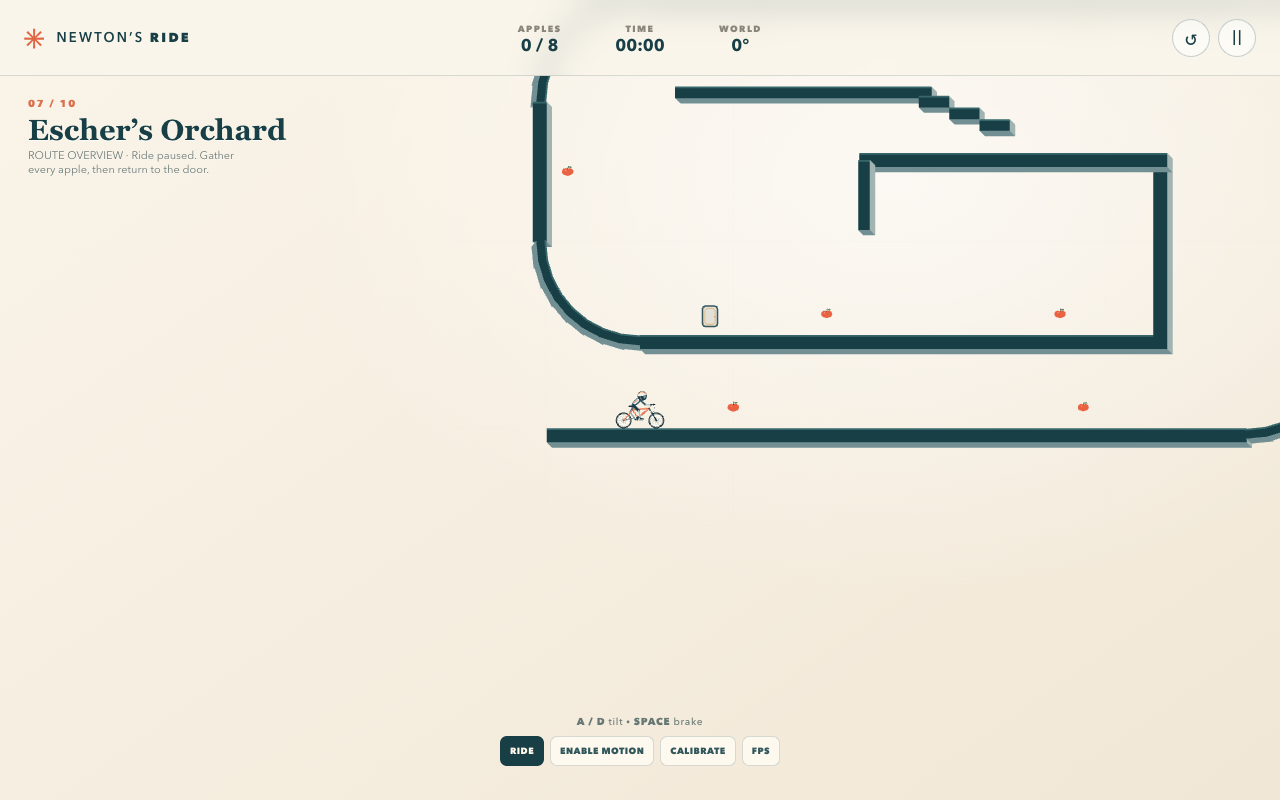
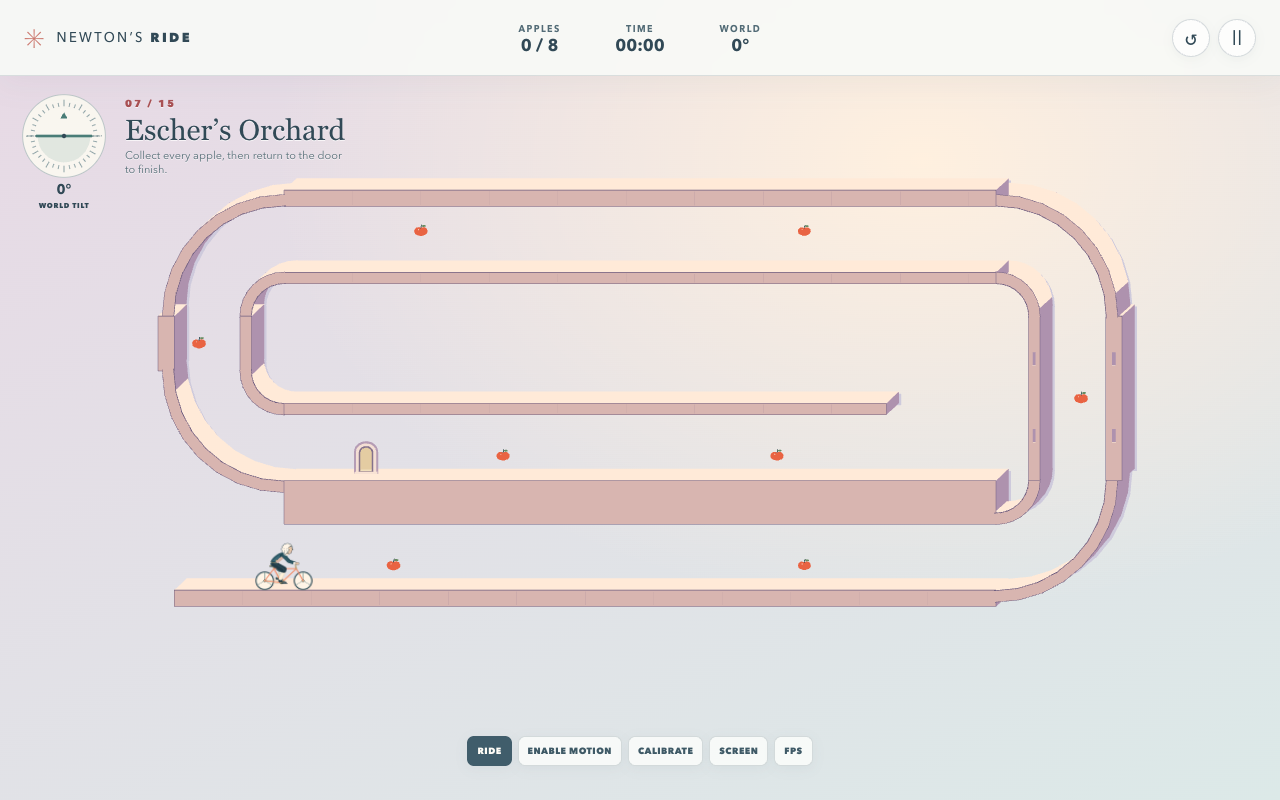
Keep Escher's circular tunnel visible while riding (#5)

diff --git a/src/levels/late.ts b/src/levels/late.ts
@@ -41,27 +41,30 @@ export const lateLevels: Level[] = [
   },
   {
     id: 'eschers-orchard', name: 'Escher’s Orchard', subtitle: 'The room above is the room below',
-    mechanic: 'A spiral of nested rooms turns floor into wall and ceiling, then returns above the entrance.',
+    mechanic: 'A low spiral tunnel turns floor into wall and ceiling, then returns above the entrance.',
     hint: 'Trace the outer apples clockwise. After the left wall, collect both terrace apples, then reverse to the inner door.',
-    spawn: p(4, .7), bounds: bounds(38, 22), difficulty: 7, accent: '#d49db8',
+    spawn: p(4, .7), bounds: bounds(38, 18), difficulty: 7, accent: '#d49db8',
+    camera: { zoom: .9, verticalOffset: .04 },
     surfaces: [
       g('escher-lower-gallery', 15, -.3, 30),
-      ...turn('escher-southeast', 30, 4, 4, -Math.PI / 2), g('escher-east-room', 34.3, 9, .6, 10),
-      ...turn('escher-northeast', 30, 14, 4, 0), g('escher-upper-gallery', 17, 18.3, 26),
-      ...turn('escher-northwest', 4, 14, 4, Math.PI / 2), g('escher-west-room', -.3, 11, .6, 6),
+      ...turn('escher-southeast', 30, 4, 4, -Math.PI / 2), g('escher-east-room', 34.3, 7, .6, 6),
+      ...turn('escher-northeast', 30, 10, 4, 0), g('escher-upper-gallery', 17, 14.3, 26),
+      ...turn('escher-northwest', 4, 10, 4, Math.PI / 2), g('escher-west-room', -.3, 9, .6, 2),
       ...turn('escher-inner-return', 4, 8, 4, Math.PI),
-      g('escher-shared-floor-ceiling', 15, 3.7, 22),
-      g('escher-inner-east-wall', 26.3, 7.3, .6, 7.8),
-      g('escher-inner-ceiling', 20, 11.5, 13.2, .6),
-      // Staggered rooms and stair landings form a visible nested architectural spiral.
-      g('escher-high-landing', 11, 14.4, 11, .5),
-      g('escher-high-stair-1', 16.6, 14, 1.3, .5),
-      g('escher-high-stair-2', 17.9, 13.5, 1.3, .5),
-      g('escher-high-stair-3', 19.2, 13, 1.3, .5),
-      g('escher-inner-column', 13.6, 10, .5, 3),
+      // The same slab is the low entrance roof and the final terrace floor.
+      // A continuous inner lining keeps the 2.4m tunnel visible through every bend.
+      g('escher-shared-floor-ceiling', 17, 3.2, 26, 1.6),
+      ...turn('escher-lining-southeast', 30, 4, 1.18, -Math.PI / 2),
+      g('escher-inner-east-wall', 31.39, 7, .42, 6),
+      ...turn('escher-lining-northeast', 30, 10, 1.18, 0),
+      g('escher-inner-ceiling', 17, 11.39, 26, .42),
+      ...turn('escher-lining-northwest', 4, 10, 1.18, Math.PI / 2),
+      g('escher-inner-west-wall', 2.61, 9, .42, 2),
+      ...turn('escher-lining-return', 4, 8, 1.18, Math.PI),
+      g('escher-terrace-ceiling', 15, 6.61, 22, .42),
     ],
-    apples: [a('escher-a', 8, .9), a('escher-b', 23, .9), a('escher-c', 33.1, 9),
-      a('escher-d', 23, 17.1), a('escher-e', 9, 17.1), a('escher-f', .9, 11),
+    apples: [a('escher-a', 8, .9), a('escher-b', 23, .9), a('escher-c', 33.1, 7),
+      a('escher-d', 23, 13.1), a('escher-e', 9, 13.1), a('escher-f', .9, 9),
       a('escher-g', 12, 4.9), a('escher-h', 22, 4.9)],
     exit: p(7, 4.8),
   },

diff --git a/e2e/escher-tunnel.spec.ts b/e2e/escher-tunnel.spec.ts
@@ -1,0 +1,33 @@
+import { expect, test } from '@playwright/test';
+
+test.use({ hasTouch: true });
+test('Escher shows its low tunnel and completes the four curved gravity faces on phone', async ({ page }) => {
+  test.setTimeout(105_000);
+  const errors: string[] = [];
+  page.on('pageerror', e => errors.push(e.message));
+  await page.setViewportSize({ width: 390, height: 844 });
+  await page.goto('/');
+  await page.waitForFunction(() => Boolean((window as any).__NEWTON__));
+  await page.evaluate(() => (window as any).__NEWTON__.load(6));
+  await page.waitForTimeout(150);
+  await page.screenshot({ path: 'test-results/escher-tunnel-portrait.png' });
+  await page.setViewportSize({ width: 844, height: 390 });
+  await page.evaluate(async () => {
+    const { createReplayPilot } = await import('/src/dev/replay.ts');
+    const api = (window as any).__NEWTON__;
+    api.load(6);
+    api.drive(createReplayPilot(6));
+  });
+  await page.screenshot({ path: 'test-results/escher-tunnel-landscape.png' });
+  for (const [name, angle] of [['first-bend', .8], ['ceiling', 3.2], ['return-bend', 5.5]] as const) {
+    await page.waitForFunction(target => {
+      const api = (window as any).__NEWTON__;
+      return api.snapshot().worldAngle >= target || api.state().status !== 'playing';
+    }, angle, { timeout: 85_000 });
+    expect(await page.evaluate(() => (window as any).__NEWTON__.state().status)).toBe('playing');
+    await page.screenshot({ path: `test-results/escher-tunnel-${name}.png` });
+  }
+  await expect.poll(() => page.evaluate(() => (window as any).__NEWTON__.state().status), { timeout: 40_000 }).toBe('complete');
+  expect(await page.evaluate(() => (window as any).__NEWTON__.snapshot().collected.length)).toBe(8);
+  expect(errors).toEqual([]);
+});

diff --git a/tests/levels.test.ts b/tests/levels.test.ts
@@ -141,14 +141,17 @@ describe('authored campaign', () => {
     expect(orchard.exit.x).toBeLessThan(orchard.spawn.x);
   });
 
-  it('puts Escher objectives around nested rooms and on both sides of the shared gallery', () => {
+  it('puts Escher objectives along each tunnel face and on both sides of the shared gallery', () => {
     const escher = levels[6];
     const shared = escher.surfaces.find(s => s.id === 'escher-shared-floor-ceiling')!;
     expect(escher.apples.filter(a => a.x > shared.x - shared.w / 2 && a.x < shared.x + shared.w / 2 && a.y < shared.y)).toHaveLength(2);
     expect(escher.apples.some(a => a.y > shared.y && a.y < shared.y + 2)).toBe(true);
-    expect(escher.apples.some(a => a.x < 2 && a.y > 8)).toBe(true);
-    expect(escher.apples.some(a => a.x > 30 && a.y > 8)).toBe(true);
-    expect(escher.apples.some(a => a.y > 16)).toBe(true);
+    const east = escher.surfaces.find(s => s.id === 'escher-east-room')!;
+    const west = escher.surfaces.find(s => s.id === 'escher-west-room')!;
+    const roof = escher.surfaces.find(s => s.id === 'escher-upper-gallery')!;
+    expect(escher.apples.some(a => a.x < west.x + 2 && Math.abs(a.y - west.y) < west.h / 2)).toBe(true);
+    expect(escher.apples.some(a => a.x > east.x - 2 && Math.abs(a.y - east.y) < east.h / 2)).toBe(true);
+    expect(escher.apples.filter(a => a.y > roof.y - 2 && a.y < roof.y - roof.h / 2)).toHaveLength(2);
     expect(escher.exit.y).toBeGreaterThan(shared.y);
   });
 

diff --git a/src/renderer.ts b/src/renderer.ts
@@ -143,13 +143,16 @@ export async function createRenderer(host: HTMLElement): Promise<GameRenderer> {
     const portrait = h > w * 1.1;
     const sceneWidth = portrait ? 9.4 : 15.5;
     const sceneHeight = portrait ? 13.8 : 9.1;
-    scale = clamp(Math.min(w / sceneWidth, h / sceneHeight), 26, 88);
+    const framing = level?.camera;
+    scale = clamp(Math.min(w / sceneWidth, h / sceneHeight), 26, 88)
+      * clamp(framing?.zoom ?? 1, .7, 1.2);
     if (surveying && level) {
       const span = { x: level.bounds.max.x - level.bounds.min.x, y: level.bounds.max.y - level.bounds.min.y };
       scale = Math.min((w - 36) / span.x, Math.max(80, h - (portrait ? 260 : 170)) / span.y);
     }
     world.scale.set(scale, -scale);
-    world.position.set(w / 2, surveying ? h / 2 + 12 : h / 2 + (portrait ? -0.16 * h : 0));
+    world.position.set(w / 2, surveying ? h / 2 + 12
+      : h / 2 + (portrait ? -0.16 * h : 0) + clamp(framing?.verticalOffset ?? 0, -.1, .1) * h);
   }
 
   function load(nextLevel: Level): void {

diff --git a/src/types.ts b/src/types.ts
@@ -14,6 +14,8 @@ export interface Level {
   bounds: { min: Vec; max: Vec }; swings?: Swing[]; props?: Prop[];
   portals?: Portal[]; timePlatforms?: TimePlatform[]; routeHints?: RouteHint[];
   timeAxis?: Vec; timeTravel?: number; initialAngle?: number;
+  /** Normal riding view only; verticalOffset is a fraction of viewport height. */
+  camera?: { zoom: number; verticalOffset?: number };
   accent?: string; difficulty: number;
 }
 export interface Controls {

diff --git a/docs/maps.md b/docs/maps.md
@@ -10,7 +10,7 @@ This replaces the short original routes. Coordinates are metres, positive y up. 
 | The Pendulum Mill | Two compact decks of different suspension lengths, curved mill wall, long overhead return. | 6 | 103 m / 53 s |
 | The Room on Its Side | Sunken floor around a central divider, rounded end wall, ceiling journey home. | 6 | 92 m / 46 s |
 | Newton’s Attic | Ramped ridge and loose weights; return past the home door to collect a storage-pocket apple, then reverse again. | 6 | 102 m / 69 s |
-| Escher’s Orchard | Lower gallery → east wall → roof → west wall → top of the former entry ceiling → inner-room reversal. | 8 | 119 m / 81 s |
+| Escher’s Orchard | Lower gallery → east wall → roof → west wall → top of the former entry ceiling → inner-room reversal. | 8 | 111 m / 75 s |
 | The Contrary Conservatory | Lower greenhouse, rising weights, end wall and roof; reverse out of the final roof pocket. | 7 | 102 m / 68 s |
 | The Gravity Engine | Compact hanging deck, long approach around an axle, wall climb and overhead gallery return. | 7 | 83 m / 56 s |
 | The Clockwork Apple | Long approach raises a lift; collect the high apple and reverse the entire journey to lower it and return. | 5 | 74 m / 49 s |
@@ -24,7 +24,7 @@ The map 2 correction and measured one-wheel apple collection are documented in [
 
 Acceptance coverage is in `tests/campaign-early.test.ts` and `tests/campaign-late.test.ts`. Static tests separately check rotated bounds and bike spawn clearance. Campaign tests reject idle, held rotation, and fixed-angle attempts as trivial quick solutions. They record actual wheel support on the swings. An independent reviewer removed each of the four swing decks and observed the unchanged pilot crash at its gap. Clockwork tests freeze the lift and omit the return leg; both experiments prevent the tested route from completing.
 
-Escher now involves a complete gravity circuit and a shared ceiling/floor, with nested architecture and a reverse detour. Its geometry remains planar; it is not a topologically impossible world or a teleport system. Loose/inverted weights respond physically but do not operate mandatory gates. Sustained upside-down hanging and brake-assisted free-wheel swing capture still need dedicated campaign challenges. See [map residuals](maps-residuals.md).
+Escher now involves a complete gravity circuit and a shared ceiling/floor, with a continuous low tunnel around each bend and a reverse detour. Its geometry remains planar; it is not a topologically impossible world or a teleport system. Loose/inverted weights respond physically but do not operate mandatory gates. Sustained upside-down hanging and brake-assisted free-wheel swing capture still need dedicated campaign challenges. See [map residuals](maps-residuals.md).
 
 Browser gameplay evidence is recorded independently in [gameplay-v2.md](gameplay-v2.md). Full route overview is available using MAP or M, which pauses simulation. Physical phone sensor feel and sustained mobile performance remain hardware checks.
 

diff --git a/docs/campaign-late.md b/docs/campaign-late.md
@@ -5,7 +5,7 @@ The final five saved IDs, names and order are preserved. Coordinates remain metr
 | Map | Required route | Apples | Replay distance | Replay time |
 | --- | --- | ---: | ---: | ---: |
 | Newton’s Attic | Two ramps and the high ridge; reverse from the far pocket, pass the door to the left storage pocket, reverse again to finish | 6 | 102.4 m | 69.0 s |
-| Escher’s Orchard | Lower gallery → east wall → roof → west wall → upper face of the entry ceiling → inner pocket → reverse to inner door | 8 | 118.8 m | 80.6 s |
+| Escher’s Orchard | Lower gallery → east wall → roof → west wall → upper face of the entry ceiling → inner pocket → reverse to inner door | 8 | 110.8 m | 75.4 s |
 | Contrary Conservatory | Lower greenhouse → end wall → roof orchard → far roof pocket → reverse while inverted | 7 | 101.6 m | 68.1 s |
 | Gravity Engine | Compact hanging bridge → lower engine hall → rounded end wall → overhead gallery | 7 | 83.5 m | 55.7 s |
 | Clockwork Apple | Long approach winds the lift upward; high apple on the lift; return unwinds the lift and reaches the original door | 5 | 74.5 m | 49.3 s |
@@ -14,7 +14,7 @@ These times are deterministic 120 Hz Rapier runs at a controlled target speed of
 
 ## Escher's topology
 
-The entry's overhead slab is also the floor of the final room. To reach its upper face, the rider must pass through four gravity orientations around a nested spiral, returning through the same horizontal region four metres higher. The inner wall, upper chamber, staggered landings and stair sequence create overlapping rooms rather than an empty rectangle. Apples on each outer face require the whole circuit; the inner pocket and reversed final leg make continually holding rotate insufficient. The west return joins the shared slab with a four-metre concave bend. Main passages retain at least approximately 3.4 metres of clearance.
+The entry's overhead slab is also the floor of the final room. To reach its upper face, the rider must pass through four gravity orientations around a nested spiral, returning through the same horizontal region four metres higher. A continuous inner lining follows all four bends, keeping the ceiling visible while the world rotates. The outer roof is at 14 m; the entry slab underside is at 2.4 m and its upper terrace remains at 4 m. Apples on each outer face require the whole circuit; the inner pocket and reversed final leg make continually holding rotate insufficient. The west return joins the shared slab with a four-metre concave bend. The tunnel retains approximately 2.4 metres of clearance, including the bends. Escher alone uses a 10% wider riding camera and a small downward rider offset; the whole-map view remains independent of this framing.
 
 ## Mechanic evidence
 

diff --git a/docs/implementation-log.md b/docs/implementation-log.md
@@ -95,3 +95,12 @@ Residual: physical iPhone Safari toolbar collapse and installed launch still nee
 ## Taller philosopher on original wheelbase — 2026-10-04
 
 Integrated the philosopher on the original 1.4 m axle spacing with a taller body and larger head. Preserved original mass, brakes, wheel radii, and apple reach, and added a matching visible-head collision query. Full 161-case campaign suite passes without map or pilot edits; the added crown-clearance and fast inverted-flight regressions also pass (163 total). The head check sweeps between physics steps, addressing the second Sol review finding. See `rider-integration.md` for validation and review limitations. Sol generated four start-page illustration variants under `docs/design/newton-start/`; these remain options for user selection.
+
+
+## Map 7: visible circular tunnel — 2026-10-04
+
+Astra lowered Escher’s outer roof from 18 m to 14 m and replaced the distant interior architecture with a continuous lining around all four rounded turns. The passage is approximately 2.4 m high; the shared slab remains the entry ceiling and the final terrace floor. All eight apples and the return door remain, with the wall and roof apples moved with their surfaces. A level-specific camera widens the riding view by 10% and shifts the rider slightly down so the approaching roof stays visible. Other maps retain the previous camera defaults.
+
+Native replay completes in 75.442 seconds over 110.812 m, reaching 6.296 radians of world rotation. The full 163-case unit suite passes after replacing obsolete absolute-height assertions with checks against the actual wall and roof surfaces. TypeScript and the Pages build pass. A new rendered phone test completes all eight apples, recording portrait/landscape entry, first bend, ceiling and return bend screenshots. Four existing map-overview checks also pass.
+
+Fresh Astra-low review inspected geometry, rider clearance, camera defaults and all route screenshots; no blocking findings or source fix cycles were required. Minor existing HUD overlap with architecture remains, but the rider and tunnel edges stay visible. Browser emulation does not establish physical-phone sensor feel. The final assertion correction checks the same face-placement contract against the intentionally lowered geometry.
